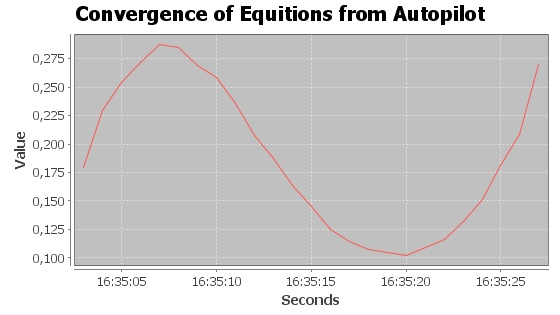
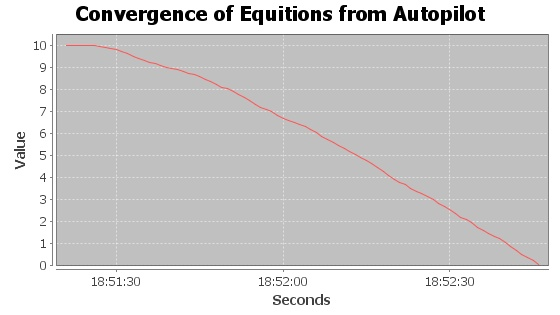
changed equations to calculate differences between real en desired values

diff --git a/Code/P-O-CW/src/main/java/be/kuleuven/cs/robijn/testbed/VirtualTestbed.java b/Code/P-O-CW/src/main/java/be/kuleuven/cs/robijn/testbed/VirtualTestbed.java
@@ -10,7 +10,6 @@ import org.jfree.data.time.Second;
 import org.jfree.data.time.TimeSeries;
 import org.jfree.data.time.TimeSeriesCollection;
 import org.jfree.data.xy.XYDataset;
-
 import be.kuleuven.cs.robijn.common.*;
 import be.kuleuven.cs.robijn.experiments.ExpEquations;
 import be.kuleuven.cs.robijn.testbed.renderer.OpenGLRenderer;
@@ -36,6 +35,7 @@ public class VirtualTestbed extends WorldObject implements TestBed {
 	private byte[] latestCameraImage;
 	
 	private int VTUpdatesSinceChartUpdates = 0;
+	private boolean drawChart = true;
 	
 	private ArrayList<Box> boxesToFlyTo = new ArrayList<>();
 
@@ -72,7 +72,9 @@ public class VirtualTestbed extends WorldObject implements TestBed {
 			
 			//Stop the simulation if all boxes are handled
 			if(boxesToFlyTo.isEmpty()) {
-				ExpEquations.main(); //draw chart when simulation stops
+				if (drawChart) {
+					ExpEquations.main(); //draw chart when simulation stops
+				}
 				return true;
 			}
 		}
@@ -81,14 +83,61 @@ public class VirtualTestbed extends WorldObject implements TestBed {
 		this.moveDrone(secondsSinceLastUpdate, output);
 		this.renderCameraView();
 		
-		VTUpdatesSinceChartUpdates++;
-		if(VTUpdatesSinceChartUpdates >= 5 ) {//Update the chart every 5 iterations of the VTestbed
-			updateSeriesForFloat(drone.getHeadingAngularVelocity());
-			//updateSeriesForVector(drone.getHeadingAngularVelocityVector());
-			VTUpdatesSinceChartUpdates = 0;
+		//only execute if there must be a chart of values in time
+		if(drawChart) {
+			VTUpdatesSinceChartUpdates++;
+			if(VTUpdatesSinceChartUpdates >= 5 ) {//Update the chart every 5 iterations of the VTestbed			
+				updateSeriesForFloat("heading", box, drone);
+				//updateSeriesForVector(drone.getHeadingAngularVelocityVector());
+				VTUpdatesSinceChartUpdates = 0;
+			}
 		}
 				
 		return false;
+	}
+	
+	/**
+	 * Get the angles from the current place of the plane to the closest cube
+	 * @param inputs
+	 * @return
+	 */
+	public RealVector getAnglesDifference(Box box, Drone drone) {        
+		RealVector droneCo = drone.getWorldPosition();
+		RealVector boxCo = box.getWorldPosition();
+		
+		RealVector distanceVector= new ArrayRealVector(new double[] {
+				Math.abs(droneCo.getEntry(0) - boxCo.getEntry(0)),
+				Math.abs(droneCo.getEntry(1) - boxCo.getEntry(1)),
+				Math.abs(droneCo.getEntry(2) - boxCo.getEntry(2))
+				},false);
+		
+		RealVector droneRotation = new ArrayRealVector(new double[] {drone.getHeading(), drone.getPitch(), drone.getRoll()},false);
+//		RealVector necessaryRotation = new ArrayRealVector(new double[] {
+//				distanceVector.cosine(droneRotation),
+//				distanceVector.cosine(drone.get),
+//				distanceVector.cosine(depthVector)
+//				},false);      	
+		
+		RealVector horVector = new ArrayRealVector(new double[] {distanceVector.getEntry(0),0,0},false);
+		RealVector verVector = new ArrayRealVector(new double[] {0,distanceVector.getEntry(1),0},false);
+		RealVector depthVector = new ArrayRealVector(new double[] {0,0,distanceVector.getEntry(2)},false);
+		
+		RealVector distanceAngularVector = new ArrayRealVector(new double[] {
+				(distanceVector.projection(horVector).getEntry(0)),
+				(distanceVector.projection(verVector).getEntry(1)),
+				(distanceVector.projection(depthVector).getEntry(2)),
+				},false);
+		
+		RealVector necessaryRotation = getAbs(droneRotation.subtract(distanceAngularVector));
+      	return necessaryRotation;
+	}
+	
+	RealVector getAbs(RealVector v) {
+		double x = Math.abs(v.getEntry(0));
+		double y = Math.abs(v.getEntry(1));
+		double z = Math.abs(v.getEntry(2));
+		
+		return new ArrayRealVector(new double[] {x,y,z},false);
 	}
 	
 	/**
@@ -158,7 +207,21 @@ public class VirtualTestbed extends WorldObject implements TestBed {
          }
 	}
 	
-	public void updateSeriesForFloat(float value) {
+	public void updateSeriesForFloat(String type, Box box, Drone drone) {
+		float value = Float.MAX_VALUE;
+		
+		if(type == "heading") {
+			value = (float) getAnglesDifference(box, drone).getEntry(0); //x-value
+		}
+		
+		else if(type == "pitch") {
+			value = (float) getAnglesDifference(box, drone).getEntry(1);
+		}
+		
+		else {
+			return; //wrong argument
+		}
+		
 		try {
 			series.add(current, new Double( value ) );
 			current = ( Second ) current.next( ); 

diff --git a/Code/P-O-CW/src/main/java/be/kuleuven/cs/robijn/autopilot/Autopilot.java b/Code/P-O-CW/src/main/java/be/kuleuven/cs/robijn/autopilot/Autopilot.java
@@ -93,6 +93,25 @@ public class Autopilot extends WorldObject implements AutoPilot {
 		this.previousElapsedTime = previousElapsedTime;
 	}
 	
+	public float[] getImageRotations(AutopilotInputs inputs) {
+        ImageRecognizer imagerecognizer = new ImageRecognizer();
+        Image image = imagerecognizer.createImage(inputs.getImage(), this.getConfig().getNbRows(), this.getConfig().getNbColumns(),
+        		this.getConfig().getHorizontalAngleOfView(), this.getConfig().getVerticalAngleOfView());
+		float[] necessaryRotation;
+        try {
+			necessaryRotation = image.getRotationToRedCube();
+		}
+		catch (IllegalStateException ex){
+        	//No red cube found, just fly forward
+			necessaryRotation = new float[2];
+		}
+        
+        necessaryRotation[0] = (float) ((necessaryRotation[0]/360)*2*Math.PI);
+      	necessaryRotation[1] = (float) ((necessaryRotation[1]/360)*2*Math.PI);
+      	
+      	return necessaryRotation;
+	}
+	
 	/**
 	 * Wel roll ten gevolge van verschillende snelheid van vleugels (door de rotaties).
 	 */
@@ -123,20 +142,9 @@ public class Autopilot extends WorldObject implements AutoPilot {
 //			imageXRotation = 0;
 //			imageYRotation = 0;
 //		}
-        
-        ImageRecognizer imagerecognizer = new ImageRecognizer();
-        Image image = imagerecognizer.createImage(inputs.getImage(), this.getConfig().getNbRows(), this.getConfig().getNbColumns(),
-        		this.getConfig().getHorizontalAngleOfView(), this.getConfig().getVerticalAngleOfView());
-		float[] necessaryRotation;
-        try {
-			necessaryRotation = image.getRotationToRedCube();
-		}
-		catch (IllegalStateException ex){
-        	//No red cube found, just fly forward
-			necessaryRotation = new float[2];
-		}
-        float imageYRotation = (float) ((necessaryRotation[0]/360)*2*Math.PI);
-      	float imageXRotation = (float) ((necessaryRotation[1]/360)*2*Math.PI);
+
+        float imageYRotation = getImageRotations(inputs)[0];
+      	float imageXRotation = getImageRotations(inputs)[1];
 		
 		float horStabInclinationTemp = 0;
 		float verStabInclinationTemp = 0;
